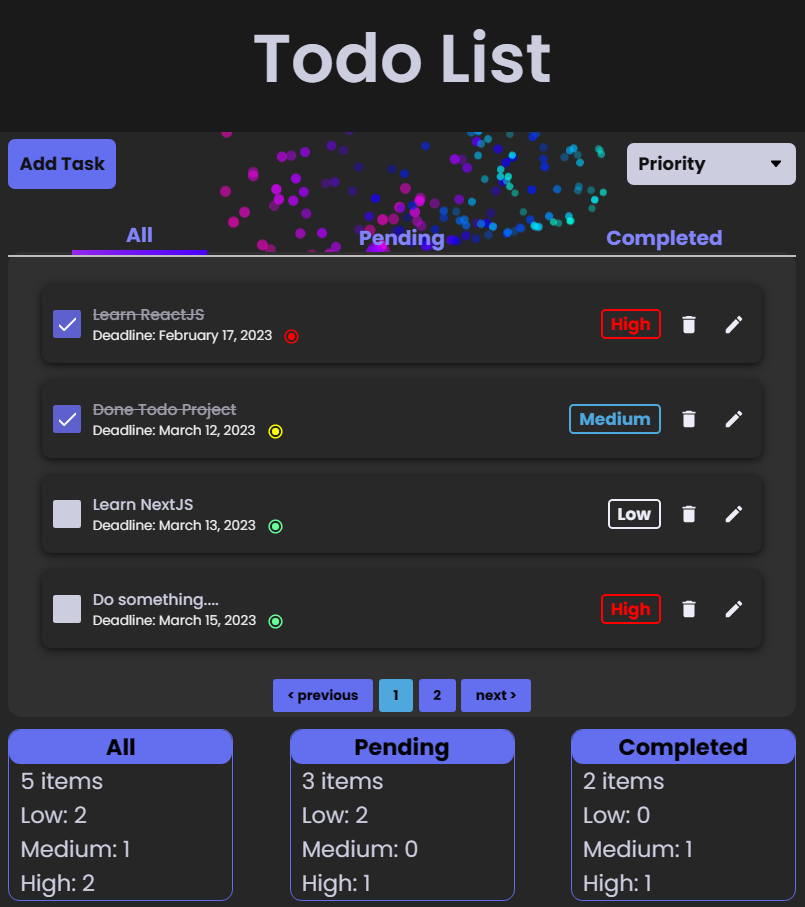
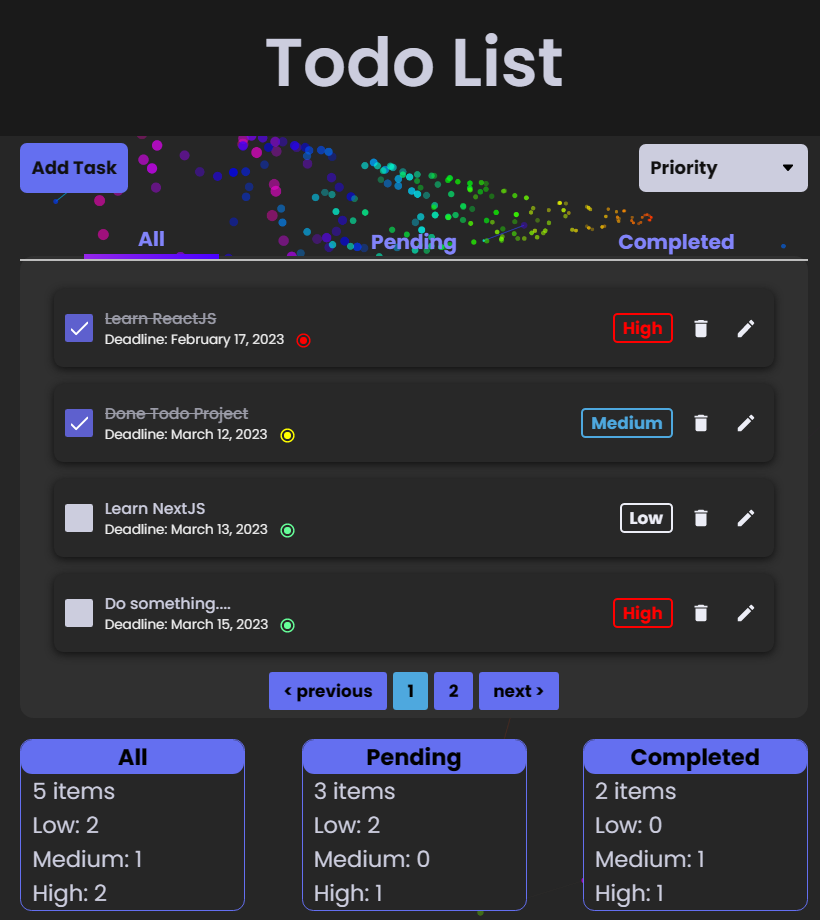
update UI

diff --git a/src/components/Stat/Stat.module.scss b/src/components/Stat/Stat.module.scss
@@ -13,7 +13,7 @@
   @include smallDeviceSize {
     width: 95%;
     margin: 0.5rem auto;
-    font-size: 1.5rem;
+    font-size: 1.7rem;
   }
 
   .title {
@@ -28,7 +28,7 @@
     padding: 0 1rem;
 
     @include smallDeviceSize {
-      font-size: 1.5rem;
+      font-size: 1.6rem;
     }
   }
 }

diff --git a/src/components/PaginateTodoList/PaginateTodoList.scss b/src/components/PaginateTodoList/PaginateTodoList.scss
@@ -4,8 +4,9 @@
   list-style: none;
   display: flex;
   justify-content: center;
-  margin-top: 1.4rem;
-  font-size: 1.2rem;
+  margin: -1rem;
+  padding: 1.3rem;
+  font-size: 1.5rem;
   gap: 5px;
   .page-num {
     padding: 6px 13px;

diff --git a/src/layouts/Footer/Footer.module.scss b/src/layouts/Footer/Footer.module.scss
@@ -4,7 +4,7 @@
   display: flex;
   justify-content: space-between;
   max-width: 70rem;
-  margin: 0 auto;
+  margin: 1.8rem auto;
 
   @include smallDeviceSize {
     display: flex;

diff --git a/src/components/TodoModal/TodoModal.module.scss b/src/components/TodoModal/TodoModal.module.scss
@@ -56,7 +56,7 @@
   width: 100%;
   label {
     font-size: 1.6rem;
-    color: var(--black-1);
+    color: var(--black-500);
     input,
     select {
       margin-top: 0.5rem;

diff --git a/README.md b/README.md
@@ -12,10 +12,10 @@ The simple todo app is built with these key components::</p>
 
 <h2>Project Screenshots:</h2>
 <h3>Desktop:</h3>
-<img src="https://i.ibb.co/2Y6YF39/banner-desktop.png" width="500" height ="500" alt="project-screenshot">
+<img src="https://i.ibb.co/SrPtbwj/banner-desktop.png" width="500" height ="500" alt="project-screenshot">
 
 <h3>Mobile:</h3>
-<img src="https://i.ibb.co/MDv7NXB/banner-mobile.png" width="250" height="700" alt="project-screenshot">
+<img src="https://i.ibb.co/khdVQ9s/banner-mobile.png" width="250" height="700" alt="project-screenshot">
 </div>
 
   
